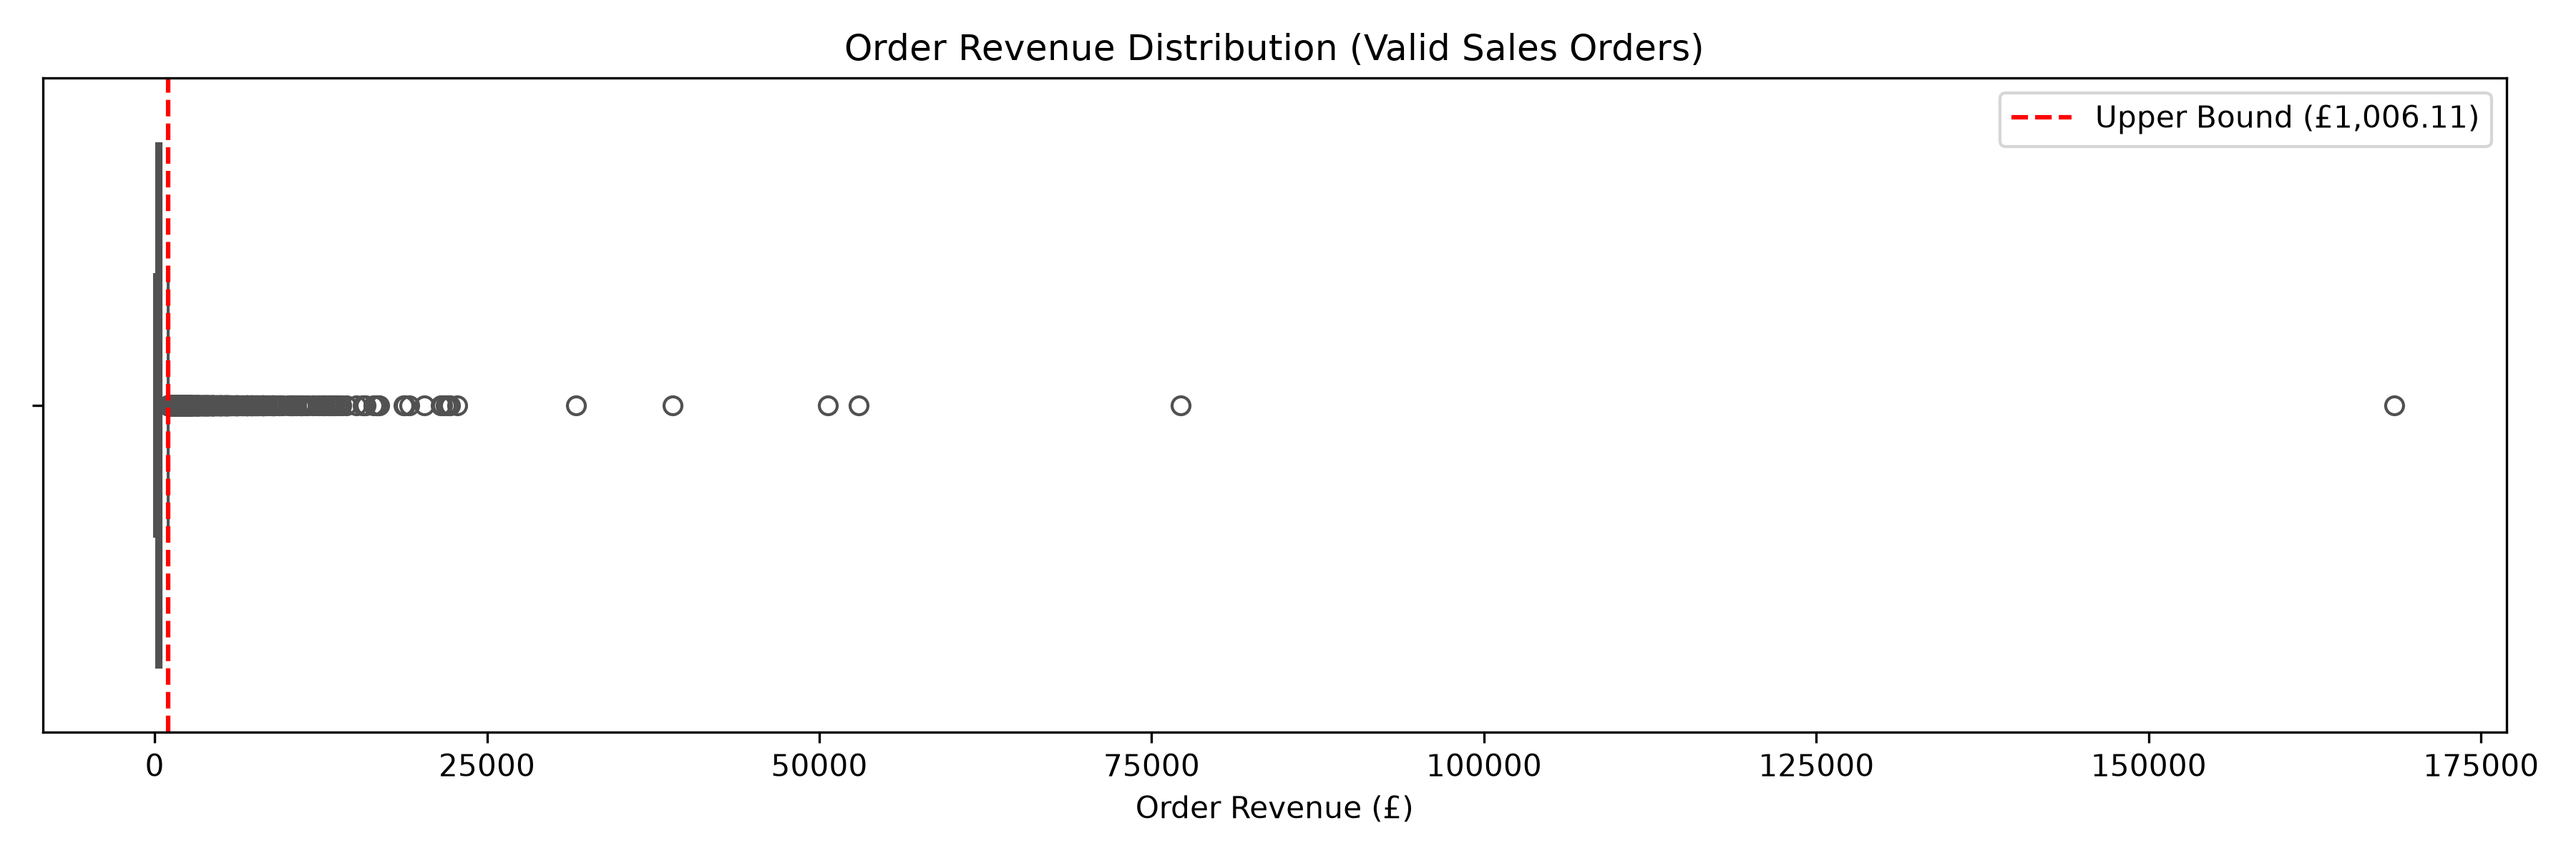
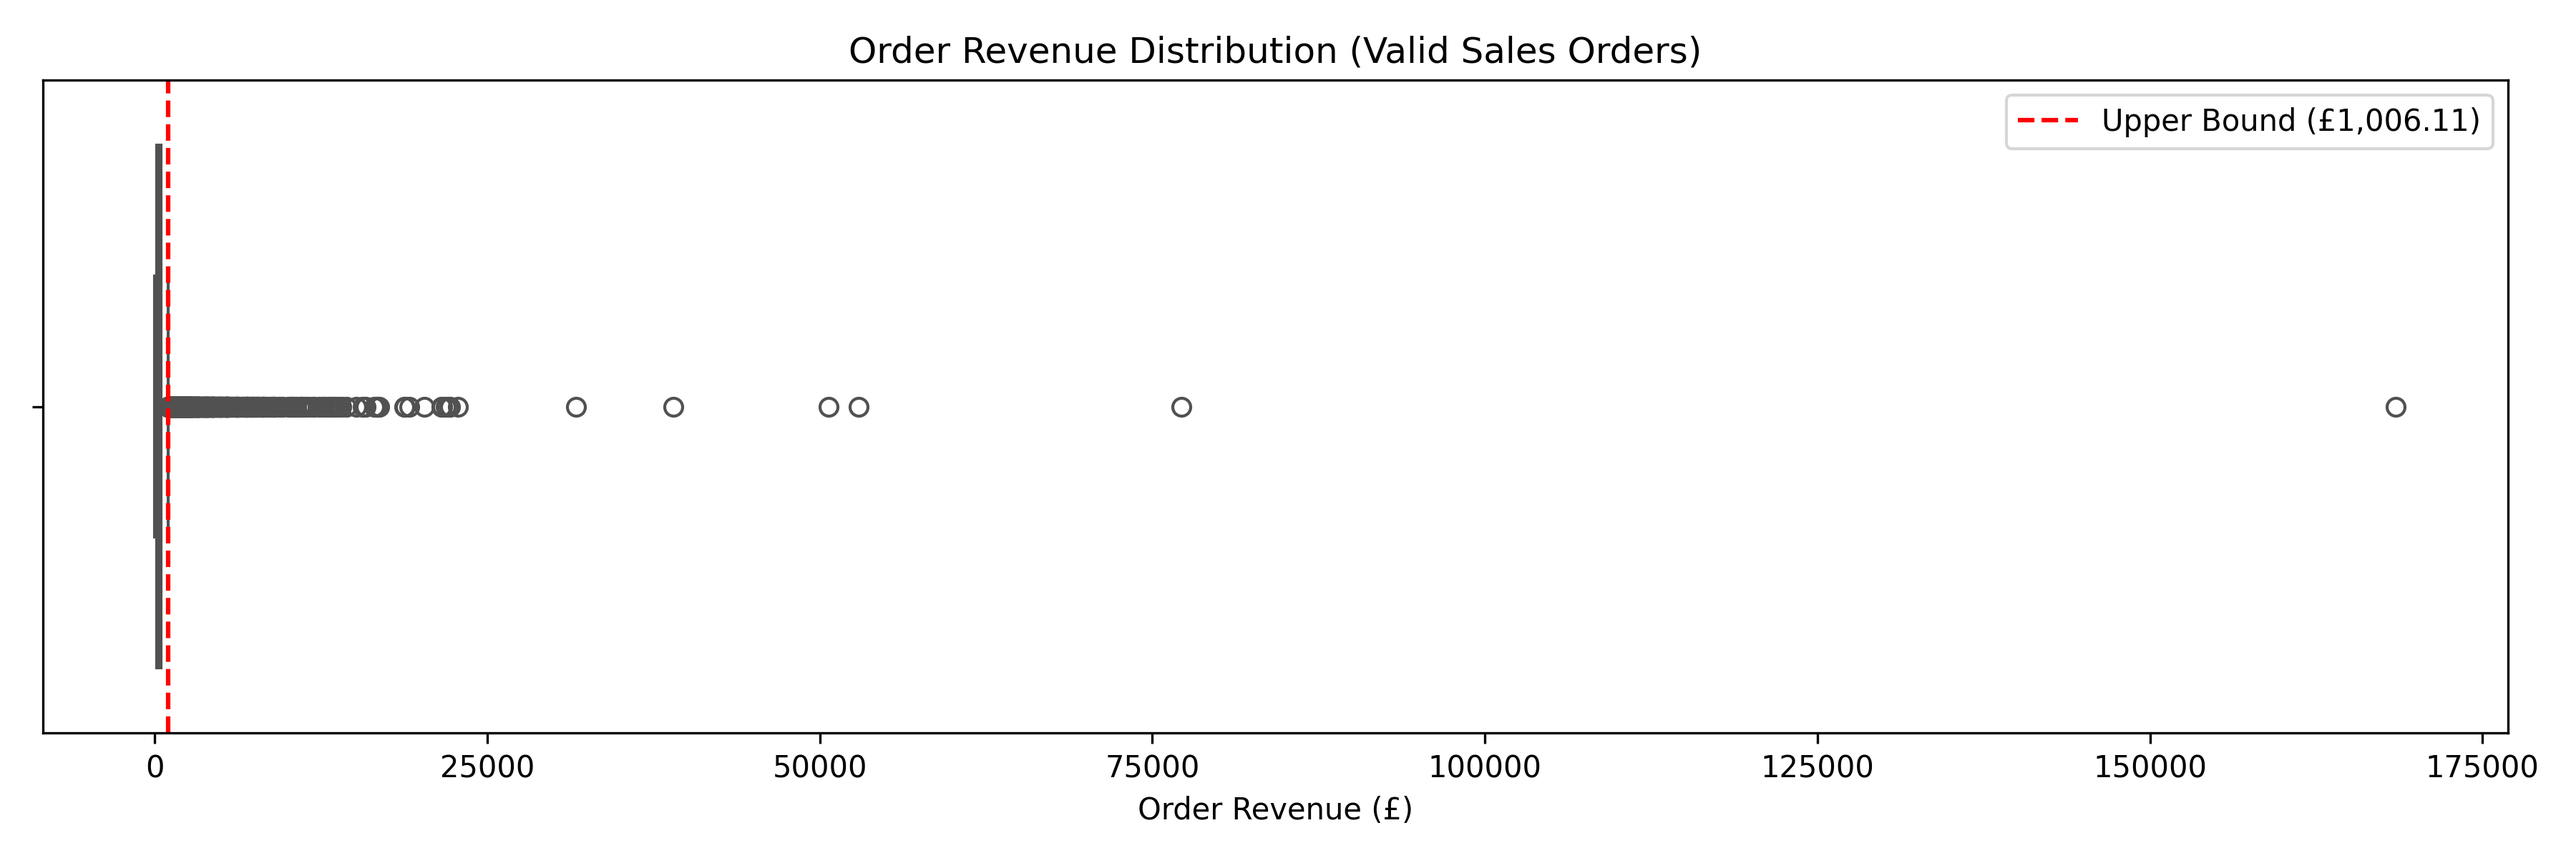
feat: issue 7

diff --git a/src/eda.py b/src/eda.py
@@ -1,0 +1,79 @@
+import pandas as pd
+from pathlib import Path
+import matplotlib.pyplot as plt
+import seaborn as sns
+
+# Mã dịch vụ/phí: không phải hàng hóa, loại khỏi bảng xếp hạng sản phẩm
+# nhưng vẫn giữ trong tổng doanh thu.
+SERVICE_CODES = ['DOT', 'POST', 'M', 'AMAZONFEE']
+
+
+def load_cleaned_data(base_path):
+    """Đọc cleaned_retail.csv thành DataFrame."""
+    return pd.read_csv(
+        base_path + '\\data\\processed\\cleaned_retail.csv',
+        dtype={'InvoiceNo': str},
+    )
+
+
+def total_revenue(df):
+    """Tính tổng doanh thu toàn dataset."""
+    return df['Revenue'].sum()
+
+
+def revenue_by_month(df):
+    """Tính doanh thu theo từng tháng (YearMonth)."""
+    return df.groupby('YearMonth')['Revenue'].sum()
+
+
+def revenue_by_country(df):
+    """Tính doanh thu theo quốc gia, xếp giảm dần."""
+    return df.groupby('Country')['Revenue'].sum().sort_values(ascending=False)
+
+
+def top_products(df, metric='Revenue', n=10):
+    """Top n sản phẩm theo metric ('Revenue' hoặc 'Quantity'), đã loại mã dịch vụ."""
+    products = df[~df['StockCode'].isin(SERVICE_CODES)]
+    return products.groupby('StockCode')[metric].sum().sort_values(ascending=False).head(n)
+
+
+def order_values(df):
+    """Giá trị từng hóa đơn, dùng vẽ boxplot."""
+    return df.groupby('InvoiceNo')['Revenue'].sum()
+
+
+def save_chart(series, filepath, kind='bar', xlabel=''):
+    """Vẽ chart từ một Series và lưu thành file."""
+    plt.figure()
+    series.plot(kind=kind)
+    plt.xlabel(xlabel)
+    plt.xticks(rotation=45)
+    plt.tight_layout()
+    plt.savefig(filepath)
+    plt.close()
+
+
+def main():
+    base_path = str(Path(__file__).resolve().parents[1])
+    df = load_cleaned_data(base_path)
+    print('Shape:', df.shape)
+    print('Total revenue:', round(total_revenue(df), 2))
+
+    save_chart(revenue_by_month(df), base_path + '\\charts\\revenue_monthly_line.png',
+               kind='line', xlabel='YearMonth')
+    save_chart(revenue_by_country(df).head(10), base_path + '\\charts\\revenue_country.png',
+               xlabel='Country')
+    save_chart(top_products(df, metric='Quantity'), base_path + '\\charts\\top_products_quantity.png',
+               xlabel='StockCode')
+    save_chart(top_products(df, metric='Revenue'), base_path + '\\charts\\top_products_revenue.png',
+               xlabel='StockCode')
+
+    plt.figure()
+    sns.boxplot(x=order_values(df))
+    plt.tight_layout()
+    plt.savefig(base_path + '\\charts\\order_value_boxplot.png')
+    plt.close()
+
+
+if __name__ == '__main__':
+    main()

diff --git a/reports/revenue_product_eda.md b/reports/revenue_product_eda.md
@@ -1,0 +1,74 @@
+# Revenue & Product EDA — Issue #7
+
+## 1. Câu hỏi phân tích
+Nhóm khách hàng/sản phẩm nào tạo doanh thu cao? Xu hướng doanh thu theo thời gian ra sao?
+(Câu hỏi P4: Phân tích khách hàng và sản phẩm trong bán lẻ online)
+
+## 2. Dữ liệu
+- Nguồn: `data/processed/cleaned_retail.csv`, sinh bởi pipeline sau PR #26 (issue #16)
+- Phạm vi: 524,878 giao dịch bán hợp lệ, 12/2010–12/2011, cửa hàng quà tặng online tại Anh
+- Population: đã loại hóa đơn hủy (InvoiceNo bắt đầu bằng C), Quantity và UnitPrice > 0,
+  đã khử trùng lặp; giữ dòng Guest (khách vãng lai)
+- Định nghĩa: Revenue = Quantity × UnitPrice
+
+## 3. Kết quả
+
+### 3.1 Tổng doanh thu
+**£10,642,110.80** trên 524,878 giao dịch.
+
+Verified:
+- Tính lại độc lập từ Quantity × UnitPrice khớp tuyệt đối với cột Revenue.
+- Phần non-Guest: £8,887,208.89, khớp benchmark độc lập (£8.89M).
+- Chênh lệch với benchmark net £9.75M đúng bằng £894K tiền hoàn/hủy đã tách riêng
+  sang file cancelled.
+- Top 5 dòng lớn nhất đều là đơn sỉ hợp lệ, không có dòng lỗi phình tổng.
+
+### 3.2 Xu hướng theo tháng
+- Đỉnh tháng 11/2011 (~£1.5M), gấp đôi mức trung bình các tháng còn lại: mùa mua sắm
+  Giáng sinh.
+- Đáy tháng 2/2011 và tháng 4/2011 (~£0.52M).
+- Tháng 12/2010 và 12/2011 không đầy đủ dữ liệu (dataset bắt đầu 12/2010, kết thúc
+  09/12/2011) nên không so sánh trực tiếp với các tháng đủ.
+- Xu hướng chung: đi ngang nửa đầu năm, tăng tốc từ tháng 9 đến tháng 11/2011.
+
+### 3.3 Doanh thu theo quốc gia
+- United Kingdom: **84.6%** (~£9.0M). Business phụ thuộc gần như hoàn toàn vào thị trường nội địa Anh.
+- 9 nước tiếp theo (Netherlands, EIRE, Germany, France, Australia, Spain, Switzerland, Belgium, Sweden) cộng lại chỉ ~15%.
+
+### 3.4 Top sản phẩm
+Đã loại 4 mã phí/dịch vụ khỏi xếp hạng (nhưng giữ trong tổng doanh thu):
+
+- DOT → DOTCOM POSTAGE (£206,249, đứng hạng 1 nếu không loại)
+- POST → POSTAGE
+- M → Manual
+- AMAZONFEE → AMAZON FEE
+
+Top 3 theo doanh thu: 22423 (£174,157), 23843 (£168,470), 85123A (£104,463).
+
+Top 3 theo số lượng: 23843, 23166, 22197.
+
+Chỉ có 23843 lọt cả hai top 3. 22423 dẫn đầu doanh thu nhưng không lọt top 3
+số lượng: giá cao, bán ít. 23166 bán chạy hạng 2 nhưng doanh thu chỉ hạng 6:
+giá rẻ, bán nhiều. Kết luận: "bán chạy nhất" và "tạo doanh thu cao nhất" là hai
+tập sản phẩm khác nhau.
+
+### 3.5 Phân bố giá trị đơn hàng
+Boxplot cho thấy đơn hàng điển hình chỉ vài trăm bảng; ngưỡng trên (IQR) £1,006.11;
+đuôi outliers kéo tới £168K là các đơn sỉ (wholesale), không phải lỗi dữ liệu.
+Kết quả này làm đầu vào cho phân tích anomaly (issue #16).
+
+## 4. Phương pháp
+- Code: `src/eda.py`
+- Charts: 5 file trong `charts/`
+
+## 5. Hạn chế
+- Dataset quan sát 1 năm, 1 cửa hàng tại Anh: không suy rộng ra toàn ngành bán lẻ.
+- Tháng 12/2010 và 12/2011 thiếu dữ liệu.
+- Mã sản phẩm dạng số chưa map sang tên/mô tả cụ thể trong báo cáo này.
+- Phân tích mô tả, không kết luận nhân quả 
+## 6. Charts
+- `charts/revenue_monthly_line.png`
+- `charts/revenue_country.png`
+- `charts/top_products_quantity.png`
+- `charts/top_products_revenue.png`
+- `charts/order_value_boxplot.png`
